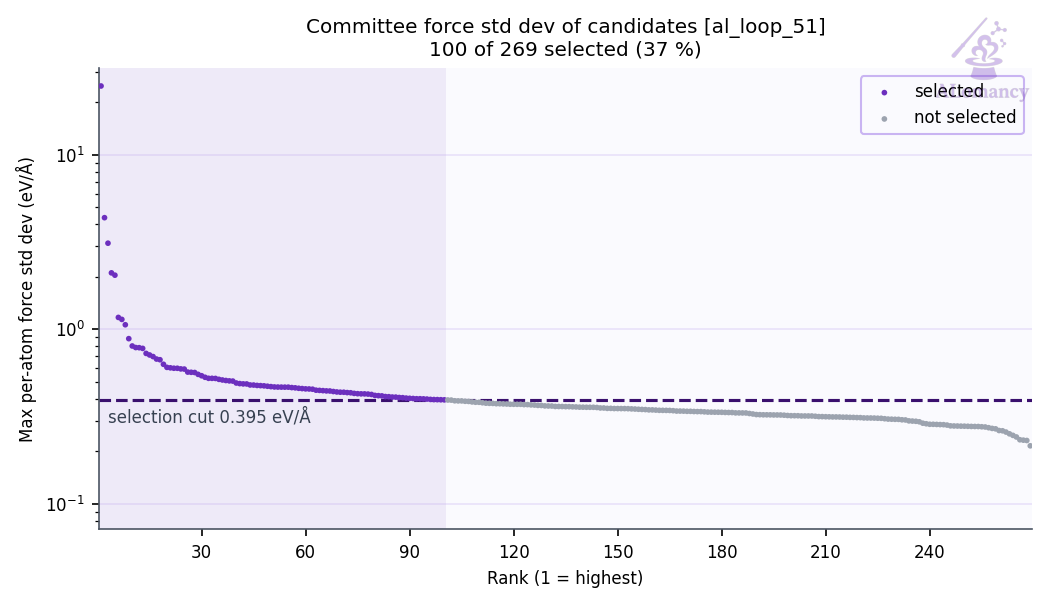
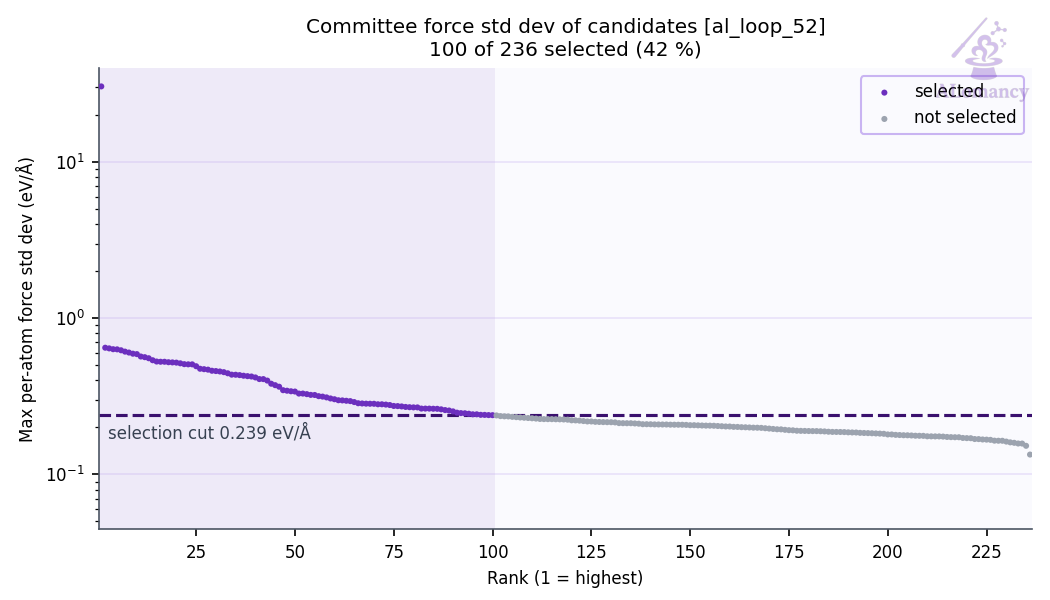
update good_c, yun_an

diff --git a/alomancy/yun_an/report/report.md b/alomancy/yun_an/report/report.md
@@ -1,29 +1,27 @@
-# ALomancy report: al_loop_51
+# ALomancy report: al_loop_52
 
-Workflow `committee_uncertainty` · trainer `mace` · generator `md` · evaluator `qe` · generated 2026-11-09T06:28:48
+Workflow `committee_uncertainty` · trainer `mace` · generator `md` · evaluator `qe` · generated 2026-11-10T15:19:36
 
-**Status:** ✖ 2 errors · ⚠ 2 warnings · 💡 1 info · 17 warning(s) logged
+**Status:** ✖ 2 errors · ⚠ 1 warning · 18 warning(s) logged
 
 ## Headline
 
-| | loop 50 | loop 51 | change |
+| | loop 51 | loop 52 | change |
 |---|---:|---:|---:|
-| Best model test force MAE (eV/Å) | 0.298 | 0.341 | +14% |
-| Best model test energy MAE (meV/atom) | 141 | 126 | -11% |
-| Training structures | 2.32e+03 | 2.41e+03 | +4% |
-| Test structures | 142 | 152 | +7% |
-| New structures this loop | 86 | 92 | +7% |
-| Warnings / errors logged | 28 | 17 | -39% |
+| Best model test force MAE (eV/Å) | 0.341 | 0.284 | -17% |
+| Best model test energy MAE (meV/atom) | 126 | 126 | -0% |
+| Training structures | 2.41e+03 | 2.51e+03 | +4% |
+| Test structures | 152 | 162 | +7% |
+| New structures this loop | 92 | 62 | -33% |
+| Warnings / errors logged | 17 | 18 | +6% |
 
-Best model: fit_4 of 5 (chosen on the `valid` split).
+Best model: fit_2 of 5 (chosen on the `valid` split).
 
 ## Issues & suggestions
 
-- ✖ **remote_jobs_failed**: 13/141 remote jobs (9%) failed (8) or died (5). Check the job logs (results/alomancy.log has each failure's traceback); jobs killed by the scheduler usually need a longer max_time for that phase, or a partition with more memory.
-- ✖ **dft_partial_failure**: 8/100 structures sent to DFT (8%) came back without a result. Check the DFT output in results/<loop>/high_accuracy_evaluation; raise high_accuracy_evaluation.max_time / max_go_time if jobs timed out.
-- ⚠ **go_not_converged**: 14/92 geometry optimisations (15%) stopped at the step budget (200 steps) before reaching the force ceiling. Raise high_accuracy_evaluation.max_num_of_relax_steps, or raise high_accuracy_evaluation.force_ceiling (now 0.05 eV/Å) so they stop earlier. Non-converged structures are still kept as training data.
-- ⚠ **short_bond_excluded**: 3191/7150 structures (45%) were dropped for a bond shorter than 0.5 Å. The model is driving MD into collisions: lower md_kwargs.temperature or md_kwargs.timestep_fs, or add more short-range initialization data (dimers/trimers).
-- 💡 **overfitting**: The best model's test force MAE (0.341 eV/Å) is 2.3x its training MAE (0.146 eV/Å). The test set covers configurations training doesn't: keep adding data, or raise general.dataset_kwargs.valid_fraction to select models on held-out data.
+- ✖ **remote_jobs_failed**: 14/128 remote jobs (11%) failed (6) or died (8). Check the job logs (results/alomancy.log has each failure's traceback); jobs killed by the scheduler usually need a longer max_time for that phase, or a partition with more memory.
+- ✖ **dft_partial_failure**: 6/100 structures sent to DFT (6%) came back without a result. Check the DFT output in results/<loop>/high_accuracy_evaluation; raise high_accuracy_evaluation.max_time / max_go_time if jobs timed out.
+- ⚠ **short_bond_excluded**: 3817/5734 structures (67%) were dropped for a bond shorter than 0.5 Å. The model is driving MD into collisions: lower md_kwargs.temperature or md_kwargs.timestep_fs, or add more short-range initialization data (dimers/trimers).
 
 ## Trends
 
@@ -45,6 +43,7 @@ Best model: fit_4 of 5 (chosen on the `valid` split).
 | 49 | 0.247 | 2232 | 76 | 76/100 | 92% | 0 | 31 |
 | 50 | 0.298 | 2323 | 86 | 86/100 | 85% | 0 | 28 |
 | 51 | 0.341 | 2409 | 92 | 92/100 | 85% | 0 | 17 |
+| 52 | 0.284 | 2512 | 62 | 94/100 | 100% | 0 | 18 |
 
 ![Best-model MAE per loop](plots/training_al_loop_mae_plot.png)
 
@@ -54,7 +53,7 @@ Best model: fit_4 of 5 (chosen on the `valid` split).
 
 ![Best model parity](plots/best_model_parity.png)
 
-Median relative error: train energy 2.2%, force 15.8%; test energy 2.0%, force 148.8%.
+Median relative error: train energy 2.6%, force 20.2%; test energy 1.6%, force 140.8%.
 Energies with |formation energy| < 0.05 eV/atom and atoms with |F| < 0.1 eV/Å are left out; force error is |ΔF|/|F| per atom.
 
 ![Best model percentage error](plots/best_model_percent_error.png)
@@ -64,17 +63,17 @@ Energies with |formation energy| < 0.05 eV/atom and atoms with |F| < 0.1 eV/Å a
 | config_type | Train | Test | Excluded: redundant | Excluded: quality filter | total |
 |---|---:|---:|---:|---:|---:|
 | IsolatedAtom | 5 | 0 | 0 | 0 | 5 |
-| high_sd | 1008 | 136 | 28 | 748 | 1920 |
+| high_sd | 1111 | 146 | 28 | 823 | 2108 |
 | init_MP | 69 | 4 | 0 | 0 | 73 |
 | init_amorphous | 67 | 12 | 8 | 0 | 87 |
 | init_dimer | 299 | 0 | 0 | 0 | 299 |
 | init_stretch_compress | 390 | 0 | 0 | 398 | 788 |
 | init_trimer | 571 | 0 | 0 | 0 | 571 |
-| **all** | **2409** | **152** | **36** | **1146** | **3743** |
+| **all** | **2512** | **162** | **36** | **1221** | **3931** |
 
-- Redundancy removal: 36 structure(s) flagged in total, 0 of this loop's 92 new.
-- DFT geometry-optimisation starting frames: 92 stored this loop, 4 used (the rest excluded by the train/test filters or redundancy removal).
-- Quality filters: high_force: 1144, formation_energy: 357.
+- Redundancy removal: 36 structure(s) flagged in total, 0 of this loop's 62 new.
+- DFT geometry-optimisation starting frames: 126 stored this loop, 51 used (the rest excluded by the train/test filters or redundancy removal).
+- Quality filters: high_force: 1219, formation_energy: 362.
 
 ![Training set composition](plots/training_set_composition.png)
 
@@ -82,17 +81,17 @@ Energies with |formation energy| < 0.05 eV/atom and atoms with |F| < 0.1 eV/Å a
 
 Redundancy removal flags near-duplicate training structures, so the model isn't trained on many copies of the same geometry. Each structure is described by `char_vec_128`: all of its interatomic distances, sorted and resampled to 128 values (`global_descriptor/atomic_distance_descriptor.make_char_vec`). Two structures count as duplicates when the Euclidean distance between their descriptors is below a tolerance: in database order, each structure still in the training set is kept unless it is within the tolerance of one already kept. The plot sweeps that tolerance and counts how many structures are kept at each value. **We are looking for plateaus** (shaded): ranges where the count doesn't change, so the result doesn't depend on the exact tolerance. The orange line (right axis) is the number of structures removed between consecutive tolerance steps, the gradient of the count: zero on a plateau. The start of the lowest plateau at least `general.redundancy_kwargs.min_plateau_width` of the swept range wide is used (dashed line). Nothing is flagged when no plateau qualifies, or when it would flag more than `max_flagged_fraction` of the structures; `general.redundancy_kwargs.tolerance` sets the tolerance directly.
 
-- This loop: 1,180 structures probed, tolerance 0.0398, 36 flagged as duplicates (8 plateau(s) found).
+- This loop: 1,283 structures probed, tolerance 0.0398, 36 flagged as duplicates (8 plateau(s) found).
 
 ![Redundancy tolerance probe](plots/redundancy_tolerance_probe.png)
 
 ## DFT
 
-- Structures: 92 returned of 100 submitted (92 relaxed, 0 single point).
-- Geometry optimisation: 78/92 reached the force ceiling (0.05 eV/Å); steps mean 134.6, median 129, max 200 of 200 allowed.
-- Average DFT time per relaxation: 312.5 min (median 292.5, max 586.7; 92 structures).
-- Largest per-atom force after DFT: median 0.05, max 1.88 eV/Å.
-- DFT phase wall-clock: 10.3 h (mean queue time 21 min).
+- Structures: 94 returned of 100 submitted (94 relaxed, 0 single point).
+- Geometry optimisation: 94/94 reached the force ceiling (0.05 eV/Å); steps mean 104.4, median 97, max 200 of 200 allowed.
+- Average DFT time per relaxation: 231.9 min (median 230.3, max 475.3; 94 structures).
+- Largest per-atom force after DFT: median 0.05, max 0.05 eV/Å.
+- DFT phase wall-clock: 8.2 h (mean queue time 24 min).
 
 **Structures evaluated with DFT this loop (final geometries)**
 
@@ -100,14 +99,14 @@ Redundancy removal flags near-duplicate training structures, so the model isn't 
 
 ## MLIP training: mace
 
-- Best fit (fit_4) trained for 299 epochs, stage two from epoch 240; weights kept from epoch 247.
+- Best fit (fit_2) trained for 299 epochs, stage two from epoch 240; weights kept from epoch 245.
 
 ![Best model training curve](plots/best_model_training_curve.png)
 
 ## Structure generation: MD
 
 - Runs: 30 (30 completed, 1 seed(s) replaced)
-- Frames: 6224 recorded, 3690 physical (no bond < 0.5 Å, volume ≤ 3 x the seed's; 44 frame(s) cut after a run expanded past it, seed frames left out), 1000 picked as candidates, spread over each run
+- Frames: 4781 recorded, 1681 physical (no bond < 0.5 Å, volume ≤ 3 x the seed's; 17 frame(s) cut after a run expanded past it, seed frames left out), 1000 picked as candidates, spread over each run
 - Ensemble npt, T = 300 K, timestep 0.1 fs
 
 ![MD frames per run](plots/md_frames_per_run.png)
@@ -122,7 +121,7 @@ Redundancy removal flags near-duplicate training structures, so the model isn't 
 
 ## Selection: committee uncertainty
 
-- 269 candidates scored; 100 selected (37 %; max force std dev ≥ 0.395 eV/Å).
+- 236 candidates scored; 100 selected (42 %; max force std dev ≥ 0.239 eV/Å).
 
 ![Committee force std dev](plots/committee_force_std_dev.png)
 
@@ -131,8 +130,8 @@ Redundancy removal flags near-duplicate training structures, so the model isn't 
 | event | meaning | count |
 |---|---|---:|
 | `dft_summary` | DFT batch summary | 1 |
-| `job_died` | remote job died (killed / lost) | 5 |
-| `job_failed` | remote job failed | 8 |
+| `job_died` | remote job died (killed / lost) | 8 |
+| `job_failed` | remote job failed | 6 |
 | `jobs_started` | remote jobs started | 5 |
 | `md_summary` | MD summary | 1 |
 | `md_volume_expanded` | MD runs cut after expanding past max_volume_ratio | 1 |
